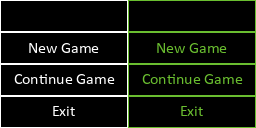
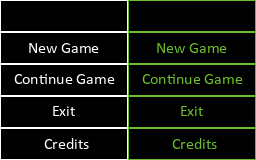
Credits (#32)
* feat: add dataset for credits

* feat: credits button and display them in game

* chore: remove assets from readme because they are now included in game

diff --git a/RogueliteSurvivor/RogueliteSurvivor/Scenes/MainMenuScene.cs b/RogueliteSurvivor/RogueliteSurvivor/Scenes/MainMenuScene.cs
@@ -3,6 +3,7 @@ using Microsoft.Xna.Framework;
 using Microsoft.Xna.Framework.Content;
 using Microsoft.Xna.Framework.Graphics;
 using Microsoft.Xna.Framework.Input;
+using Newtonsoft.Json.Linq;
 using RogueliteSurvivor.Constants;
 using RogueliteSurvivor.Containers;
 using RogueliteSurvivor.Utils;
@@ -27,6 +28,7 @@ namespace RogueliteSurvivor.Scenes
 
         private Dictionary<string, PlayerContainer> playerContainers;
         private List<MapContainer> mapContainers;
+        private CreditsContainer creditsContainer = null;
 
 
         public MainMenuScene(SpriteBatch spriteBatch, ContentManager contentManager, GraphicsDeviceManager graphics, World world, Box2D.NetStandard.Dynamics.World.World physicsWorld, Dictionary<string, PlayerContainer> playerContainers, Dictionary<string, MapContainer> mapContainers)
@@ -52,7 +54,14 @@ namespace RogueliteSurvivor.Scenes
                 fonts = new Dictionary<string, SpriteFont>()
                 {
                     { "Font", Content.Load<SpriteFont>(Path.Combine("Fonts", "Font")) },
+                    { "FontSmall", Content.Load<SpriteFont>(Path.Combine("Fonts", "FontSmall")) },
                 };
+            }
+
+            if(creditsContainer == null)
+            {
+                JObject credits = JObject.Parse(File.ReadAllText(Path.Combine(Content.RootDirectory, "Datasets", "credits.json")));
+                creditsContainer = CreditsContainer.ToCreditsContainer(credits["data"]);
             }
 
             state = MainMenuState.MainMenu;
@@ -90,6 +99,9 @@ namespace RogueliteSurvivor.Scenes
                             case 2:
                                 break;
                             case 3:
+                                state = MainMenuState.Credits;
+                                break;
+                            case 4:
                                 retVal = "exit";
                                 break;
                         }
@@ -103,7 +115,7 @@ namespace RogueliteSurvivor.Scenes
                     }
                     else if (kState.IsKeyDown(Keys.Down) || gState.DPad.Down == ButtonState.Pressed || gState.ThumbSticks.Left.Y < -0.5f)
                     {
-                        selectedButton = int.Min(selectedButton + 1, 3);
+                        selectedButton = int.Min(selectedButton + 1, 4);
                         readyForInput = false;
                     }
                 }
@@ -177,7 +189,15 @@ namespace RogueliteSurvivor.Scenes
                         readyForInput = false;
                     }
                 }
-
+                else if (state == MainMenuState.Credits)
+                {
+                    if (gState.Buttons.A == ButtonState.Pressed || gState.Buttons.B == ButtonState.Pressed 
+                        || kState.IsKeyDown(Keys.Escape) || kState.IsKeyDown(Keys.Enter))
+                    {
+                        state = MainMenuState.MainMenu;
+                        readyForInput = false;
+                    }
+                }
             }
 
             return retVal;
@@ -223,7 +243,19 @@ namespace RogueliteSurvivor.Scenes
                 _spriteBatch.Draw(
                     textures["MainMenuButtons"],
                     new Vector2(_graphics.PreferredBackBufferWidth / 6, _graphics.PreferredBackBufferHeight / 6 + 96),
-                    new Rectangle(0 + selectedButton == 3 ? 128 : 0, 96, 128, 32),
+                    new Rectangle(0 + selectedButton == 3 ? 128 : 0, 128, 128, 32),
+                    Color.White,
+                    0f,
+                    new Vector2(64, 16),
+                    1f,
+                    SpriteEffects.None,
+                    0f
+                );
+
+                _spriteBatch.Draw(
+                    textures["MainMenuButtons"],
+                    new Vector2(_graphics.PreferredBackBufferWidth / 6, _graphics.PreferredBackBufferHeight / 6 + 144),
+                    new Rectangle(0 + selectedButton == 4 ? 128 : 0, 96, 128, 32),
                     Color.White,
                     0f,
                     new Vector2(64, 16),
@@ -312,6 +344,62 @@ namespace RogueliteSurvivor.Scenes
                     new Vector2(_graphics.PreferredBackBufferWidth / 6 - 200, _graphics.PreferredBackBufferHeight / 6 + 32 + counter),
                     Color.White
                 );
+            }
+            else if (state == MainMenuState.Credits)
+            {
+                int counterX = 0, counterY = 0;
+                foreach(var outsideResource in creditsContainer.OutsideResources)
+                {
+                    _spriteBatch.DrawString(
+                        fonts["Font"],
+                        outsideResource.Author,
+                        new Vector2(_graphics.PreferredBackBufferWidth / 6 - 300 + counterX, _graphics.PreferredBackBufferHeight / 6 + counterY),
+                        Color.White
+                    );
+                    counterY += 18;
+
+                    foreach(var package in outsideResource.Packages)
+                    {
+                        if(package.Length > 40)
+                        {
+                            string part1, part2;
+                            part1 = package.Substring(0, package.IndexOf(' ', 30));
+                            part2 = package.Substring(package.IndexOf(' ', 30));
+                            _spriteBatch.DrawString(
+                                fonts["FontSmall"],
+                                part1,
+                                new Vector2(_graphics.PreferredBackBufferWidth / 6 - 288 + counterX, _graphics.PreferredBackBufferHeight / 6 + counterY),
+                                Color.White
+                            );
+                            counterY += 12;
+                            _spriteBatch.DrawString(
+                                fonts["FontSmall"],
+                                part2,
+                                new Vector2(_graphics.PreferredBackBufferWidth / 6 - 276 + counterX, _graphics.PreferredBackBufferHeight / 6 + counterY),
+                                Color.White
+                            );
+                        }
+                        else
+                        {
+                            _spriteBatch.DrawString(
+                                fonts["FontSmall"],
+                                package,
+                                new Vector2(_graphics.PreferredBackBufferWidth / 6 - 288 + counterX, _graphics.PreferredBackBufferHeight / 6 + counterY),
+                                Color.White
+                            );
+                        }
+                        
+                        counterY += 12;
+                    }
+
+                    counterY += 18;
+
+                    if(counterY > 100)
+                    {
+                        counterY = 0;
+                        counterX += 200;
+                    }
+                }
             }
             _spriteBatch.End();
         }

diff --git a/RogueliteSurvivor/RogueliteSurvivor/Containers/CreditsContainer.cs b/RogueliteSurvivor/RogueliteSurvivor/Containers/CreditsContainer.cs
@@ -1,0 +1,49 @@
+using Newtonsoft.Json.Linq;
+using RogueliteSurvivor.Constants;
+using System.Collections.Generic;
+
+namespace RogueliteSurvivor.Containers
+{
+    public class CreditsContainer
+    {
+        public CreditsContainer() { }
+        public List<OutsideResourceCreditContainer> OutsideResources { get; set; }
+        
+        public static CreditsContainer ToCreditsContainer(JToken credits)
+        {
+            var creditsContainer = new CreditsContainer();
+            creditsContainer.OutsideResources = new List<OutsideResourceCreditContainer>();
+
+            foreach(var outsideResource in credits["outsideResources"])
+            {
+                creditsContainer.OutsideResources.Add(OutsideResourceCreditContainer.ToOutsideResourceCreditContainer(outsideResource));
+            }
+
+            return creditsContainer;
+        }
+    }
+
+    public class OutsideResourceCreditContainer
+    {
+        public OutsideResourceCreditContainer() { }
+
+        public string Author { get; set; }
+        public List<string> Packages { get; set; }
+
+        public static OutsideResourceCreditContainer ToOutsideResourceCreditContainer(JToken outsideResource)
+        {
+            var outsideResourceContainer = new OutsideResourceCreditContainer()
+            {
+                Author = (string)outsideResource["author"],
+                Packages = new List<string>()
+            };
+
+            foreach(var package in outsideResource["packages"])
+            {
+                outsideResourceContainer.Packages.Add((string)package);
+            }
+
+            return outsideResourceContainer;
+        }
+    }
+}

diff --git a/RogueliteSurvivor/RogueliteSurvivor/Constants/MainMenuState.cs b/RogueliteSurvivor/RogueliteSurvivor/Constants/MainMenuState.cs
@@ -5,5 +5,6 @@
         MainMenu,
         CharacterSelection,
         MapSelection,
+        Credits
     }
 }

diff --git a/README.md b/README.md
@@ -19,10 +19,3 @@ A simple Vampire Survivors clone
   - Pixel art editor
 - Tiled [https://www.mapeditor.org/](https://www.mapeditor.org/)
   - Map editor
-
-## Assets
-
-- Fireballs by xyezawr [https://xyezawr.itch.io/free-pixel-effects-pack-13-fireballs](https://xyezawr.itch.io/free-pixel-effects-pack-13-fireballs)
-- Player character by cyberrumor [https://cyberrumor.itch.io/animated-mage-character](https://cyberrumor.itch.io/animated-mage-character)
-- Bats by Deep Dive Gaming Studio [https://deepdivegamestudio.itch.io/undead-asset-pack](https://deepdivegamestudio.itch.io/undead-asset-pack)
-- Dungeon Tileset by Anokolisa [https://anokolisa.itch.io/dungeon-crawler-pixel-art-asset-pack](https://anokolisa.itch.io/dungeon-crawler-pixel-art-asset-pack)
